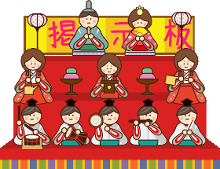
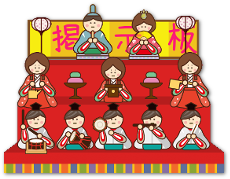
add hina dann light effect

diff --git a/src/css/style.css b/src/css/style.css
@@ -1026,29 +1026,34 @@ background-repeat: no-repeat;
   height: 164px;
 }
 .kirikabu{
-  margin-top: -10px;
+  margin: 0px;
   padding: 0px;
   width: 220px;
   height: 169px;
-  /* transform: rotateZ(-5deg); */
   background-image: url(../img/page1/kirikabu.png);
   background-size: cover;
 }
-.kirikabu::after{
-  display: none;
-  margin-top: -10px;
-  padding: 0px;
+.kirikabu:before {
+  position: relative;
+  content: '';
+  display: inline-block;
+  /* top: -10px; */
+  left: 0px;
   width: 220px;
   height: 169px;
-  /* transform: rotateZ(-5deg); */
   background-image: url(../img/page1/kirikabuOn.png);
-  background-size: cover;
+  background-repeat: no-repeat;
+  background-size:cover;
+  vertical-align: middle;
+  z-index: 99;
+  opacity:0;
 }
-.kirikabu:hover .kirikabu::after{
-  display: block;
+.kirikabu:hover:before  {
+  opacity: 1;
 }
-.kirikabu:hover{
-  display: none;
+.kirikabu:hover  {
+  width:1px;
+  height:1px;
 }
 
 
